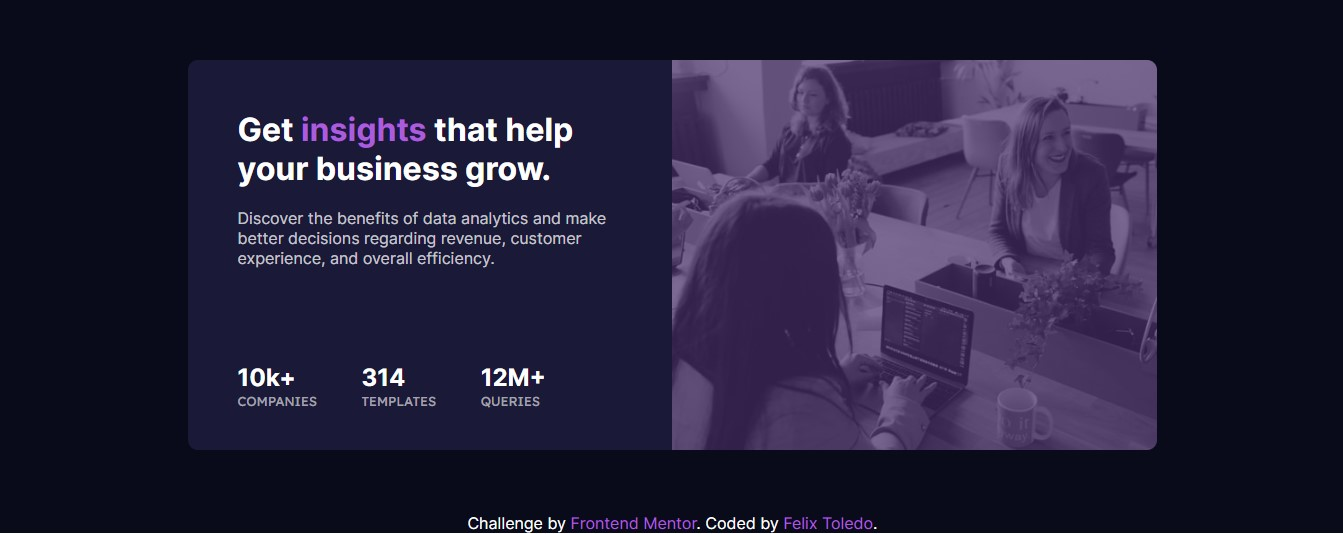
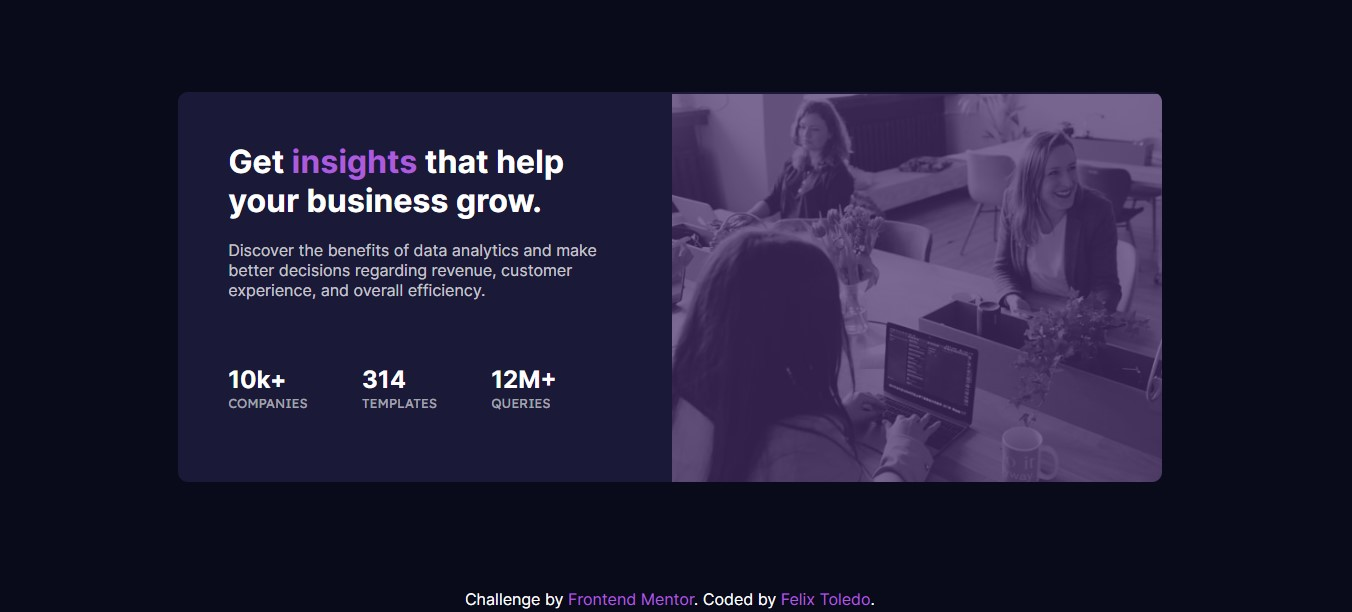
readme finished

diff --git a/README.md b/README.md
@@ -13,10 +13,8 @@ This solution was made with HTML, and SCSS.
 - [My process](#my-process)
   - [Built with](#built-with)
   - [What I learned](#what-i-learned)
-  - [Continued development](#continued-development)
   - [Useful resources](#useful-resources)
 - [Author](#author)
-- [Acknowledgments](#acknowledgments)
 
 ## Overview
 
@@ -27,21 +25,17 @@ Users should be able to:
 - View the optimal layout depending on their device's screen size
 
 ### Screenshot
-
+Desktop:
 ![](./screenshot.jpg)
 
-Add a screenshot of your solution. The easiest way to do this is to use Firefox to view your project, right-click the page and select "Take a Screenshot". You can choose either a full-height screenshot or a cropped one based on how long the page is. If it's very long, it might be best to crop it.
+Mobile:
+![](./screenshot-mobile.jpg)
 
-Alternatively, you can use a tool like [FireShot](https://getfireshot.com/) to take the screenshot. FireShot has a free option, so you don't need to purchase it. 
-
-Then crop/optimize/edit your image however you like, add it to your project, and update the file path in the image above.
-
-**Note: Delete this note and the paragraphs above when you add your screenshot. If you prefer not to add a screenshot, feel free to remove this entire section.**
 
 ### Links
 
-- Solution URL: [Add solution URL here](https://your-solution-url.com)
-- Live Site URL: [Add live site URL here](https://your-live-site-url.com)
+- Solution URL: [CODE](https://github.com/felix-toledo/stats-card-challenge-frontendmentor)
+- Live Site URL: [DEPLOYMENT](https://felix-toledo.github.io/stats-card-challenge-frontendmentor/)
 
 ## My process
 
@@ -52,59 +46,26 @@ Then crop/optimize/edit your image however you like, add it to your project, and
 - Flexbox
 - CSS Grid
 - Mobile-first workflow
-- [React](https://reactjs.org/) - JS library
-- [Next.js](https://nextjs.org/) - React framework
-- [Styled Components](https://styled-components.com/) - For styles
-
-**Note: These are just examples. Delete this note and replace the list above with your own choices**
+- SCSS
 
 ### What I learned
 
-Use this section to recap over some of your major learnings while working through this project. Writing these out and providing code samples of areas you want to highlight is a great way to reinforce your own knowledge.
+The most I learned was how to put a violet filter to your images.
 
-To see how you can add code snippets, see below:
-
-```html
-<h1>Some HTML code I'm proud of</h1>
-```
-```css
-.proud-of-this-css {
-  color: papayawhip;
-}
-```
-```js
-const proudOfThisFunc = () => {
-  console.log('🎉')
-}
-```
-
-If you want more help with writing markdown, we'd recommend checking out [The Markdown Guide](https://www.markdownguide.org/) to learn more.
-
-**Note: Delete this note and the content within this section and replace with your own learnings.**
-
-### Continued development
-
-Use this section to outline areas that you want to continue focusing on in future projects. These could be concepts you're still not completely comfortable with or techniques you found useful that you want to refine and perfect.
-
-**Note: Delete this note and the content within this section and replace with your own plans for continued development.**
+.img-mobile{
+        visibility: visible;
+        width: 100%;
+        filter: opacity(0.3) drop-shadow(0 0 0 $accent); 
+    }
 
 ### Useful resources
 
-- [Example resource 1](https://www.example.com) - This helped me for XYZ reason. I really liked this pattern and will use it going forward.
-- [Example resource 2](https://www.example.com) - This is an amazing article which helped me finally understand XYZ. I'd recommend it to anyone still learning this concept.
-
-**Note: Delete this note and replace the list above with resources that helped you during the challenge. These could come in handy for anyone viewing your solution or for yourself when you look back on this project in the future.**
+- [RESOURCE OF WHAT I LEARNED](https://www.delftstack.com/es/howto/css/css-change-image-color/) - This helped me for teaching me how to put a filter.
 
 ## Author
 
-- Website - [Add your name here](https://www.your-site.com)
-- Frontend Mentor - [@yourusername](https://www.frontendmentor.io/profile/yourusername)
-- Twitter - [@yourusername](https://www.twitter.com/yourusername)
+- GitHub - [Felix Toledo](https://github.com/felix-toledo)
+- Frontend Mentor - [@felix-toledo](https://www.frontendmentor.io/profile/felix-toledo)
+- Twitter - [@_felixtoledo](https://www.twitter.com/_felixtoledo)
 
-**Note: Delete this note and add/remove/edit lines above based on what links you'd like to share.**
 
-## Acknowledgments
-
-This is where you can give a hat tip to anyone who helped you out on this project. Perhaps you worked in a team or got some inspiration from someone else's solution. This is the perfect place to give them some credit.
-
-**Note: Delete this note and edit this section's content as necessary. If you completed this challenge by yourself, feel free to delete this section entirely.**
